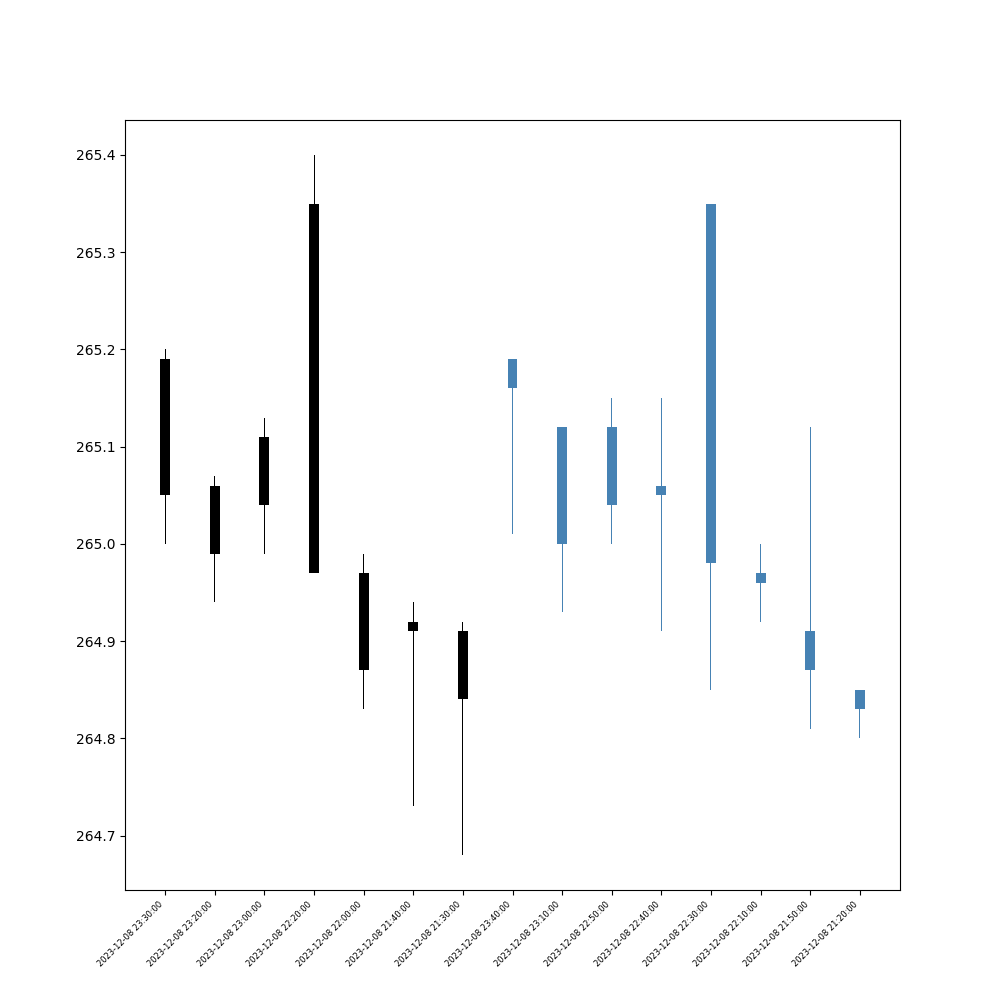
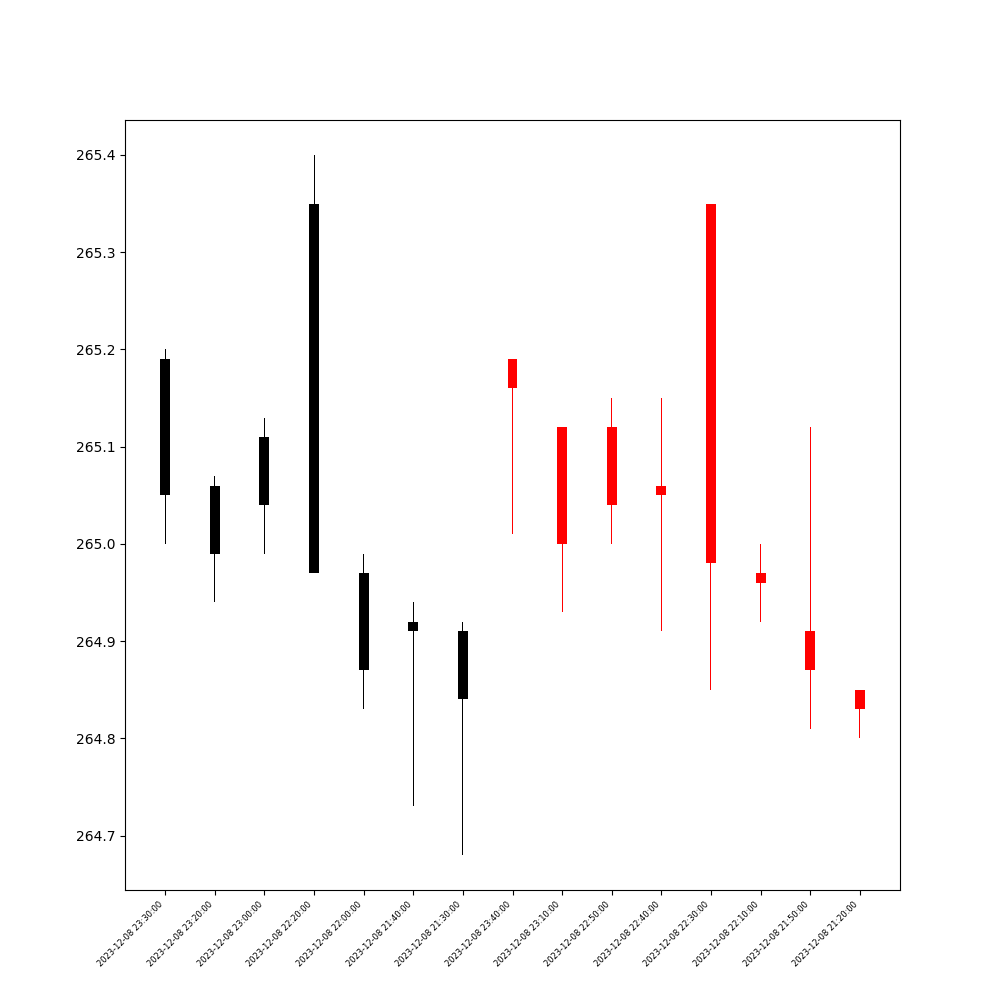
add values and volume

diff --git a/data.py b/data.py
@@ -4,9 +4,8 @@ import matplotlib.pyplot as plt
 
 def get_data(ticker, data, start):  # тут имя акции
     table = pd.DataFrame()
-    # data = "2023-12-01"  # тут сегодняшняя дата
     url = f'https://iss.moex.com/iss/engines/stock/markets/shares/securities/{ticker}/candles.csv?from={data}&interval=10&start={start}'
-    df = pd.read_csv(url, sep=';', skiprows=2)
+    df = pd.read_csv(url, encoding='cp1251', sep=';', skiprows=2)
     table = pd.concat([table, df])
     return table
 
@@ -25,7 +24,7 @@ def draw_graf(filename, prices):
 
     # define colors to use
     col1 = 'black'
-    col2 = 'steelblue'
+    col2 = 'red'
     # plot up prices
     plt.bar(up.begin, up.close - up.open, width, bottom=up.open, color=col1)
     plt.bar(up.begin, up.high - up.close, width2, bottom=up.close, color=col1)
@@ -43,8 +42,52 @@ def draw_graf(filename, prices):
     plt.savefig(filename)
 
 
+def draw_graf_value(filename, prices):
+    # create figure
+    plt.figure(figsize=(10, 10))
+
+    # define width of candlestick elements
+    width = .2
+    width2 = .02
+
+    # define colors to use
+    col2 = 'red'
+    plt.plot(prices.begin, prices.value, color=col2)
+    # rotate x-axis tick labels
+    plt.xticks(rotation=45, ha='right', fontsize=6)
+
+    # display candlestick chart
+    plt.savefig(filename)
+
+
+def draw_graf_volume(filename, prices):
+    # create figure
+    plt.figure(figsize=(10, 10))
+
+    # define width of candlestick elements
+    width = .2
+    width2 = .02
+
+    # define colors to use
+    col2 = 'red'
+    plt.plot(prices.begin, prices.volume, color=col2)
+    # rotate x-axis tick labels
+    plt.xticks(rotation=45, ha='right', fontsize=6)
+
+    # display candlestick chart
+    plt.savefig(filename)
+
+
+def get_index():
+    table = pd.DataFrame()
+    url = "https://iss.moex.com/iss/history/engines/stock/markets/index/securities.csv?date=2023-12-08&start=0"
+    df = pd.read_csv(url, sep=';', skiprows=2)
+    table = pd.concat([table, df])
+    return table
+
+
 prices = get_data('YNDX', '2023-12-07', 0)[::-1][:15]
-draw_graf('static/img/tbl3.png', prices)
+draw_graf_volume('static/img/tbl3.png', prices)
 
 # prices = get_data('SBER', '2023-10-10', 0)[:15]
 # draw_graf('static/img/tbl4.png', prices)

diff --git a/main.py b/main.py
@@ -5,7 +5,7 @@ from flask_login import LoginManager, login_user, current_user, logout_user, log
 from UserLogin import UserLogin
 from FDataBase import FDataBase
 from time import time
-from data import get_data, draw_graf
+from data import get_data, draw_graf, draw_graf_value, draw_graf_volume
 from datetime import datetime, timedelta
 
 
@@ -86,12 +86,10 @@ def widgets():
     vtb = get_data('VTBR', data, 0)[::-1][:15]
     rosn = get_data('ROSN', data, 0)[::-1][:15]
     gasp = get_data('GASP', data, 0)[::-1][:15]
-    draw_graf('static/img/candle_yndx.png', yndx)
-    draw_graf('static/img/candle_sber.png', sber)
-    draw_graf('static/img/candle_vtb.png', vtb)
-    draw_graf('static/img/candle_rosn.png', rosn)
-    draw_graf('static/img/candle_gasp.png', gasp)
-
+    for name, act in zip(["yndx", "sber", "vtb", "rosn", "gasp"], [yndx, sber, vtb, rosn, gasp]):
+        draw_graf(f'static/img/candle_{name}.png', act)
+        draw_graf_value(f'static/img/value_{name}.png', act)
+        draw_graf_volume(f'static/img/volume_{name}.png', act)
     return render_template('widgets.html')
 
 
